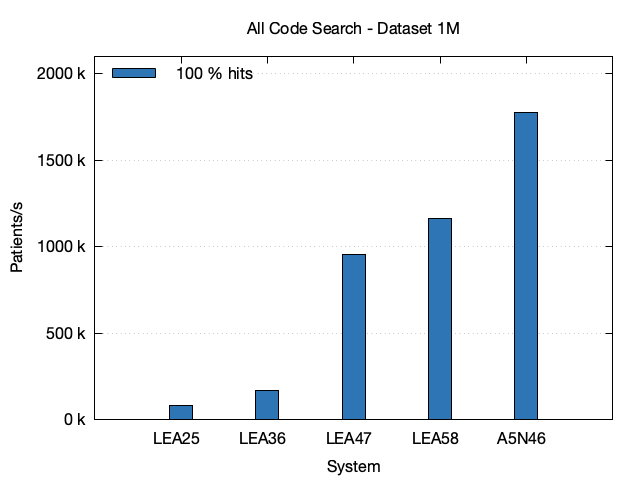
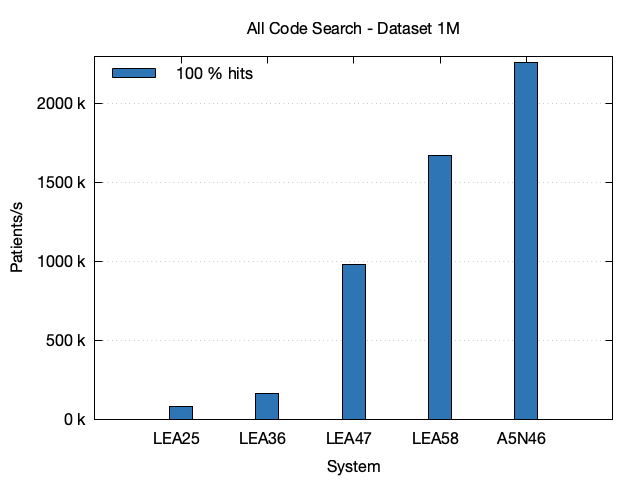
Improve Performance of Large Iterator Pools
Closes: #3030

diff --git a/modules/kv/java/blaze/db/kv/iter_pool/State.java b/modules/kv/java/blaze/db/kv/iter_pool/State.java
@@ -2,29 +2,27 @@ package blaze.db.kv.iter_pool;
 
 import clojure.lang.Keyword;
 
+import java.util.ArrayDeque;
 import java.util.ArrayList;
-import java.util.Arrays;
+import java.util.Deque;
 import java.util.List;
 import java.util.concurrent.ConcurrentHashMap;
+import java.util.concurrent.atomic.AtomicReference;
+import java.util.function.BiFunction;
 
 /**
  * A state holding iterators that can be either borrowed or returned.
  * <p> 
- * Instances are immutable and state transition methods return new instances.
+ * Instances are mutable and are meant to be used inside a {@link ConcurrentHashMap#compute(Object, BiFunction)}
+ * which ensures atomic updates. Users should only use the static methods {@link #borrowIterator},
+ * {@link #returnIterator} and {@link #addIterator}.
  */
 public final class State {
 
-    public static final State EMPTY = new State(-1, new AutoCloseable[0], new boolean[0]);
+    private final List<AutoCloseable> allIterators = new ArrayList<>();
+    private final Deque<AutoCloseable> returnedIterators = new ArrayDeque<>();
 
-    private final int outputIdx;
-    private final AutoCloseable[] iterators;
-    // true = returned, false = borrowed
-    private final boolean[] iterState;
-
-    private State(int outputIdx, AutoCloseable[] iterators, boolean[] iterState) {
-        this.outputIdx = outputIdx;
-        this.iterators = iterators;
-        this.iterState = iterState;
+    private State() {
     }
 
     /**
@@ -38,21 +36,30 @@ public final class State {
      * @return an iterator or {@code null} if no iterator is available
      */
     public static AutoCloseable borrowIterator(ConcurrentHashMap<Keyword, State> pool, Keyword columnFamily) {
-        return pool.compute(columnFamily, (k, state) -> state == null ? EMPTY : state.borrowIter()).output();
+        var output = new AtomicReference<AutoCloseable>();
+        pool.compute(columnFamily, (k, state) -> {
+            if (state == null) return new State();
+            var iterator = state.borrowIter();
+            if (iterator != null) output.set(iterator);
+            return state;
+        });
+        return output.get();
     }
 
     /**
      * Tries to return {@code iterator} to {@code pool} for {@code columnFamily column family}.
      * <p>
-     * Changes the state of {@code pool} except if the iterator was not found.
+     * Changes the state of {@code pool}. Assumes that the iterator was borrowed before.
      *
      * @param pool         the pool to return the iterator to
      * @param columnFamily the column family for which the iterator should be returned
      * @param iterator     the iterator to return
-     * @throws IllegalArgumentException if the iterator was not found
      */
     public static void returnIterator(ConcurrentHashMap<Keyword, State> pool, Keyword columnFamily, AutoCloseable iterator) {
-        pool.computeIfPresent(columnFamily, (k, state) -> state.returnIter(iterator));
+        pool.computeIfPresent(columnFamily, (k, state) -> {
+            state.returnIter(iterator);
+            return state;
+        });
     }
 
     /**
@@ -65,7 +72,10 @@ public final class State {
      * @param iterator     the iterator to add
      */
     public static void addIterator(ConcurrentHashMap<Keyword, State> pool, Keyword columnFamily, AutoCloseable iterator) {
-        pool.computeIfPresent(columnFamily, (k, state) -> state.addIter(iterator));
+        pool.computeIfPresent(columnFamily, (k, state) -> {
+            state.addIter(iterator);
+            return state;
+        });
     }
 
     public static void closeAllIterators(ConcurrentHashMap<Keyword, State> pool) throws Exception {
@@ -74,97 +84,43 @@ public final class State {
         }
     }
 
-    /**
-     * Returns the iterator marked as output or {@code null} of none is marked.
-     *
-     * @return the iterator marked as output or {@code null} of none is marked
-     */
-    public AutoCloseable output() {
-        return outputIdx == -1 ? null : iterators[outputIdx];
-    }
-
     public List<AutoCloseable> borrowed() {
-        List<AutoCloseable> list = new ArrayList<>(iterators.length);
-        for (int i = 0; i < iterState.length; i++) {
-            if (!iterState[i]) {
-                list.add(iterators[i]);
-            }
-        }
-        return list;
+        return allIterators.stream().filter(i -> !returnedIterators.contains(i)).toList();
     }
 
     public List<AutoCloseable> returned() {
-        List<AutoCloseable> list = new ArrayList<>(iterators.length);
-        for (int i = 0; i < iterState.length; i++) {
-            if (iterState[i]) {
-                list.add(iterators[i]);
-            }
-        }
-        return list;
+        return List.copyOf(returnedIterators);
     }
 
     /**
      * Tries to borrow an iterator.
-     * <p>
-     * Searches through all {@link #iterState iterator states} until one {@code true} (returned) state is found. If one
-     * is found, copies the iterator states, sets the one to {@code false} (borrowed) and returns a new state with the
-     * {@link #outputIdx output index} of that iterator. Otherwise returns a new state with the output index set to
-     * {@code -1}.
      *
-     * @return a new state with either {@link #outputIdx output index} set to the index of the found iterator or
-     * {@code -1}
+     * @return the first available iterator or {@code null} if none is available.
      */
-    private State borrowIter() {
-        for (int i = 0; i < iterState.length; i++) {
-            if (iterState[i]) {
-                var newIterState = iterState.clone();
-                newIterState[i] = false;
-                return new State(i, iterators, newIterState);
-            }
-        }
-        return new State(-1, iterators, iterState);
+    private AutoCloseable borrowIter() {
+        return returnedIterators.pollFirst();
     }
 
     /**
-     * Tries to return {@code iterator}.
-     * <p>
-     * Searches through all {@link #iterators} until {@code iterator} is found. If it is found, copies the iterator
-     * states, sets the one to {@code true} (returned) and returns that new state. Otherwise throws an
-     * {@link IllegalArgumentException} because the iterator was never borrowed before.
+     * Returns {@code iterator}.
      *
      * @param iterator the iterator to return
-     * @return a new state were the state of the iterator is set to {@code true} (returned)
-     * @throws IllegalArgumentException if the iterator was not found
      */
-    private State returnIter(AutoCloseable iterator) {
-        for (int i = 0; i < iterators.length; i++) {
-            if (iterators[i] == iterator) {
-                var newIterState = iterState.clone();
-                newIterState[i] = true;
-                return new State(-1, iterators, newIterState);
-            }
-        }
-        throw new IllegalArgumentException("Iterator " + iterator + " not found.");
+    private void returnIter(AutoCloseable iterator) {
+        returnedIterators.addLast(iterator);
     }
 
     /**
      * Adds {@code iterator}.
      *
      * @param iterator the iterator to add
-     * @return a new state with {@code iterator} added marked as {@code false} (borrowed) and with the
-     * {@link #outputIdx output index} set to it
      */
-    private State addIter(final AutoCloseable iterator) {
-        int l = iterators.length;
-        var newIterators = Arrays.copyOf(iterators, l + 1);
-        var newIterState = Arrays.copyOf(iterState, l + 1);
-        newIterators[l] = iterator;
-        newIterState[l] = false;
-        return new State(l, newIterators, newIterState);
+    private void addIter(final AutoCloseable iterator) {
+        allIterators.add(iterator);
     }
 
     private void closeAllIterators() throws Exception {
-        for (var iterator : iterators) {
+        for (var iterator : allIterators) {
             iterator.close();
         }
     }

diff --git a/docs/performance/cql.md b/docs/performance/cql.md
@@ -2,7 +2,7 @@
 
 ## TL;DR
 
-For the CQL queries analyzed here, the relative performance of query evaluation in patients/s stays the same for datasets with 1 million patients compared to datasets with 100 thousand patients if the system resources are sufficient and Blaze performs equally or better for datasets with more patient history. In all cases the performance increases with rising system resources.  
+For the CQL queries analyzed here, the relative performance of query evaluation in patients/s stays the same for datasets with 1 million patients compared to datasets with 100 thousand patients if the system resources are sufficient and Blaze performs equally or better for datasets with more patient history. In all cases the performance increases with rising system resources.
 
 ## Systems
 
@@ -102,15 +102,15 @@ The third bar chart shows the results for the 1M dataset. For the two bigger sys
 | 1M      | LEA36  | 17861-6 |   25 k |     0.48 |  0.003 | 2.081 M | 
 | 1M      | LEA36  | 8310-5  |  603 k |     4.74 |  0.038 | 211.1 k | 
 | 1M      | LEA36  | 72514-3 |  998 k |     7.15 |  0.032 | 139.8 k |
-| 1M      | LEA47  | 17861-6 |   25 k |     0.49 |  0.012 | 2.054 M | 
-| 1M      | LEA47  | 8310-5  |  603 k |     0.67 |  0.010 | 1.488 M | 
-| 1M      | LEA47  | 72514-3 |  998 k |     1.00 |  0.010 | 995.1 k |
-| 1M      | LEA58  | 17861-6 |   25 k |     0.52 |  0.012 | 1.930 M |
-| 1M      | LEA58  | 8310-5  |  603 k |     0.66 |  0.007 | 1.505 M | 
-| 1M      | LEA58  | 72514-3 |  998 k |     0.78 |  0.019 | 1.287 M |
-| 1M      | A5N46  | 17861-6 |   25 k |     0.22 |  0.008 | 4.514 M |
-| 1M      | A5N46  | 8310-5  |  603 k |     0.39 |  0.001 | 2.545 M | 
-| 1M      | A5N46  | 72514-3 |  998 k |     1.71 |  0.008 | 586.3 k |
+| 1M      | LEA47  | 17861-6 |   25 k |     0.54 |  0.008 | 1.837 M | 
+| 1M      | LEA47  | 8310-5  |  603 k |     0.76 |  0.011 | 1.321 M | 
+| 1M      | LEA47  | 72514-3 |  998 k |     0.89 |  0.009 | 1.120 M |
+| 1M      | LEA58  | 17861-6 |   25 k |     0.44 |  0.009 | 2.252 M |
+| 1M      | LEA58  | 8310-5  |  603 k |     0.48 |  0.012 | 2.092 M | 
+| 1M      | LEA58  | 72514-3 |  998 k |     0.57 |  0.014 | 1.741 M |
+| 1M      | A5N46  | 17861-6 |   25 k |     0.21 |  0.009 | 4.692 M |
+| 1M      | A5N46  | 8310-5  |  603 k |     0.33 |  0.005 | 3.045 M | 
+| 1M      | A5N46  | 72514-3 |  998 k |     1.68 |  0.009 | 596.2 k |
 
 ### Example CQL Query
 
@@ -171,15 +171,15 @@ The second chart shows the results for the 1M dataset. Here the performance of t
 | 1M      | LEA36  | 29463-7 | 13.6 kg |   99 k |     1.17 |  0.017 | 856.6 k | 
 | 1M      | LEA36  | 29463-7 | 75.3 kg |  500 k |     3.19 |  0.052 | 313.6 k | 
 | 1M      | LEA36  | 29463-7 |  185 kg |  998 k |    10.83 |  0.084 |  92.3 k |
-| 1M      | LEA47  | 29463-7 | 13.6 kg |   99 k |     0.60 |  0.011 | 1.667 M | 
-| 1M      | LEA47  | 29463-7 | 75.3 kg |  500 k |     1.63 |  0.023 | 612.6 k | 
-| 1M      | LEA47  | 29463-7 |  185 kg |  998 k |     2.19 |  0.037 | 456.8 k |
-| 1M      | LEA58  | 29463-7 | 13.6 kg |   99 k |     0.59 |  0.007 | 1.709 M |  
-| 1M      | LEA58  | 29463-7 | 75.3 kg |  500 k |     1.01 |  0.013 | 993.3 k | 
-| 1M      | LEA58  | 29463-7 |  185 kg |  998 k |     1.42 |  0.026 | 702.4 k |
-| 1M      | A5N46  | 29463-7 | 13.6 kg |   99 k |     0.26 |  0.006 | 3.865 M | 
-| 1M      | A5N46  | 29463-7 | 75.3 kg |  500 k |     0.47 |  0.032 | 2.114 M |
-| 1M      | A5N46  | 29463-7 |  185 kg |  998 k |     1.78 |  0.047 | 560.7 k |
+| 1M      | LEA47  | 29463-7 | 13.6 kg |   99 k |     0.47 |  0.007 | 2.147 M | 
+| 1M      | LEA47  | 29463-7 | 75.3 kg |  500 k |     0.73 |  0.004 | 1.366 M | 
+| 1M      | LEA47  | 29463-7 |  185 kg |  998 k |     1.13 |  0.025 | 881.3 k |
+| 1M      | LEA58  | 29463-7 | 13.6 kg |   99 k |     0.42 |  0.008 | 2.371 M |  
+| 1M      | LEA58  | 29463-7 | 75.3 kg |  500 k |     0.50 |  0.020 | 2.005 M | 
+| 1M      | LEA58  | 29463-7 |  185 kg |  998 k |     0.65 |  0.036 | 1.545 M |
+| 1M      | A5N46  | 29463-7 | 13.6 kg |   99 k |     0.22 |  0.013 | 4.464 M | 
+| 1M      | A5N46  | 29463-7 | 75.3 kg |  500 k |     0.37 |  0.020 | 2.678 M |
+| 1M      | A5N46  | 29463-7 |  185 kg |  998 k |     1.73 |  0.051 | 577.3 k |
 
 ### CQL Query
 
@@ -245,12 +245,12 @@ The third chart shows the results for the 1M dataset. As with the Code Value Sea
 | 1M      | LEA25  |  954 k |    10.93 |  0.068 |  91.5 k |
 | 1M      | LEA36  |    4 k |     0.57 |  0.011 | 1.766 M |
 | 1M      | LEA36  |  954 k |     5.65 |  0.033 | 177.1 k |
-| 1M      | LEA47  |    4 k |     0.55 |  0.005 | 1.813 M |
-| 1M      | LEA47  |  954 k |     0.97 |  0.016 | 1.029 M |
-| 1M      | LEA58  |    4 k |     0.56 |  0.013 | 1.800 M |
-| 1M      | LEA58  |  954 k |     0.84 |  0.007 | 1.191 M |
-| 1M      | A5N46  |    4 k |     0.23 |  0.003 | 4.385 M |
-| 1M      | A5N46  |  954 k |     0.53 |  0.003 | 1.875 M |
+| 1M      | LEA47  |    4 k |     0.41 |  0.007 | 2.435 M |
+| 1M      | LEA47  |  954 k |     0.83 |  0.009 | 1.204 M |
+| 1M      | LEA58  |    4 k |     0.41 |  0.006 | 2.420 M |
+| 1M      | LEA58  |  954 k |     0.53 |  0.015 | 1.897 M |
+| 1M      | A5N46  |    4 k |     0.20 |  0.010 | 5.003 M |
+| 1M      | A5N46  |  954 k |     0.41 |  0.002 | 2.442 M |
 
 ### CQL Query Frequent
 
@@ -326,9 +326,9 @@ cql/search.sh condition-ten-rare
 | 100k-fh | LEA58  |  100 k |     0.10 |  0.001 | 1.038 M |
 | 1M      | LEA25  |  995 k |    11.78 |  0.068 |  84.9 k |
 | 1M      | LEA36  |  995 k |     5.96 |  0.015 | 167.7 k |
-| 1M      | LEA47  |  995 k |     1.05 |  0.008 | 952.9 k |
-| 1M      | LEA58  |  995 k |     0.86 |  0.006 | 1.164 M |
-| 1M      | A5N46  |  995 k |     0.56 |  0.001 | 1.777 M |
+| 1M      | LEA47  |  995 k |     1.02 |  0.015 | 981.3 k |
+| 1M      | LEA58  |  995 k |     0.60 |  0.018 | 1.674 M |
+| 1M      | A5N46  |  995 k |     0.44 |  0.002 | 2.260 M |
 
 ### CQL Query
 
@@ -354,9 +354,9 @@ cql/search.sh condition-all
 | 100k-fh | LEA58  |    2 k |     0.54 |  0.006 | 184.4 k |
 | 1M      | LEA25  |   16 k |     7.69 |  0.108 | 130.0 k |
 | 1M      | LEA36  |   16 k |     3.90 |  0.041 | 256.7 k |
-| 1M      | LEA47  |   16 k |     1.88 |  0.025 | 531.2 k |
-| 1M      | LEA58  |   16 k |     1.21 |  0.014 | 823.8 k |
-| 1M      | A5N46  |   16 k |     0.74 |  0.047 | 1.347 M |
+| 1M      | LEA47  |   16 k |     1.24 |  0.008 | 805.0 k |
+| 1M      | LEA58  |   16 k |     0.68 |  0.018 | 1.478 M |
+| 1M      | A5N46  |   16 k |     0.57 |  0.003 | 1.741 M |
 
 ### CQL Query
 
